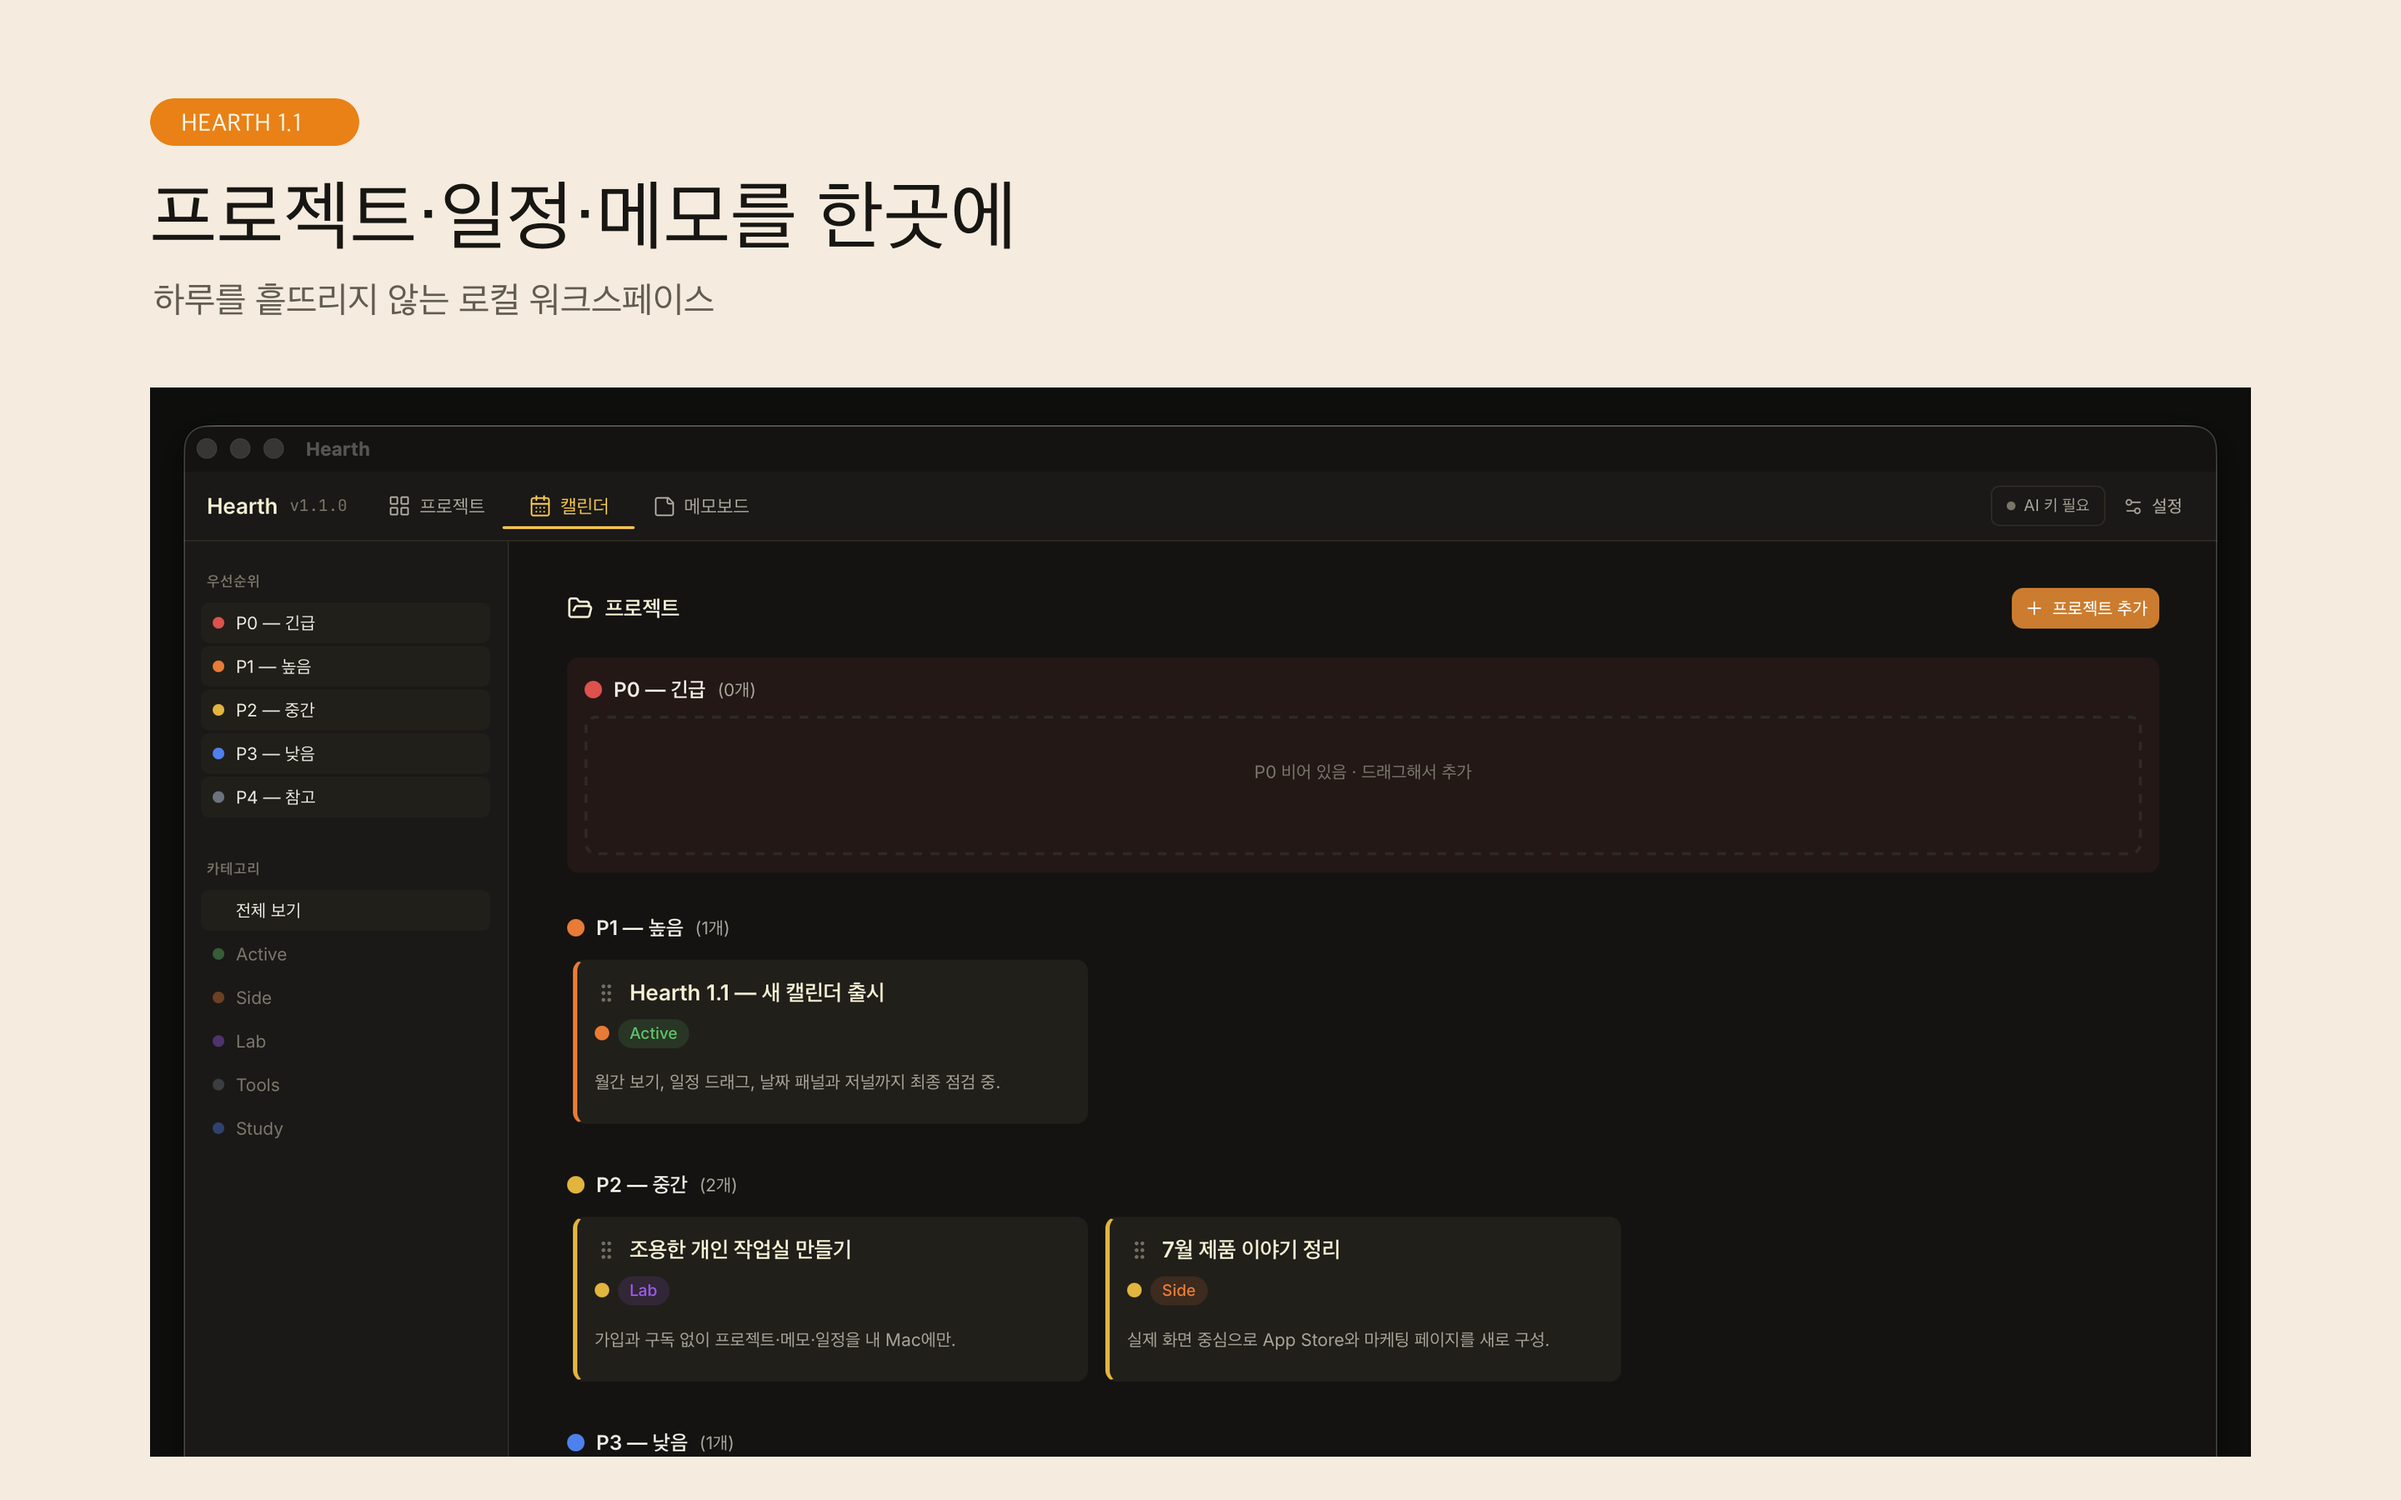
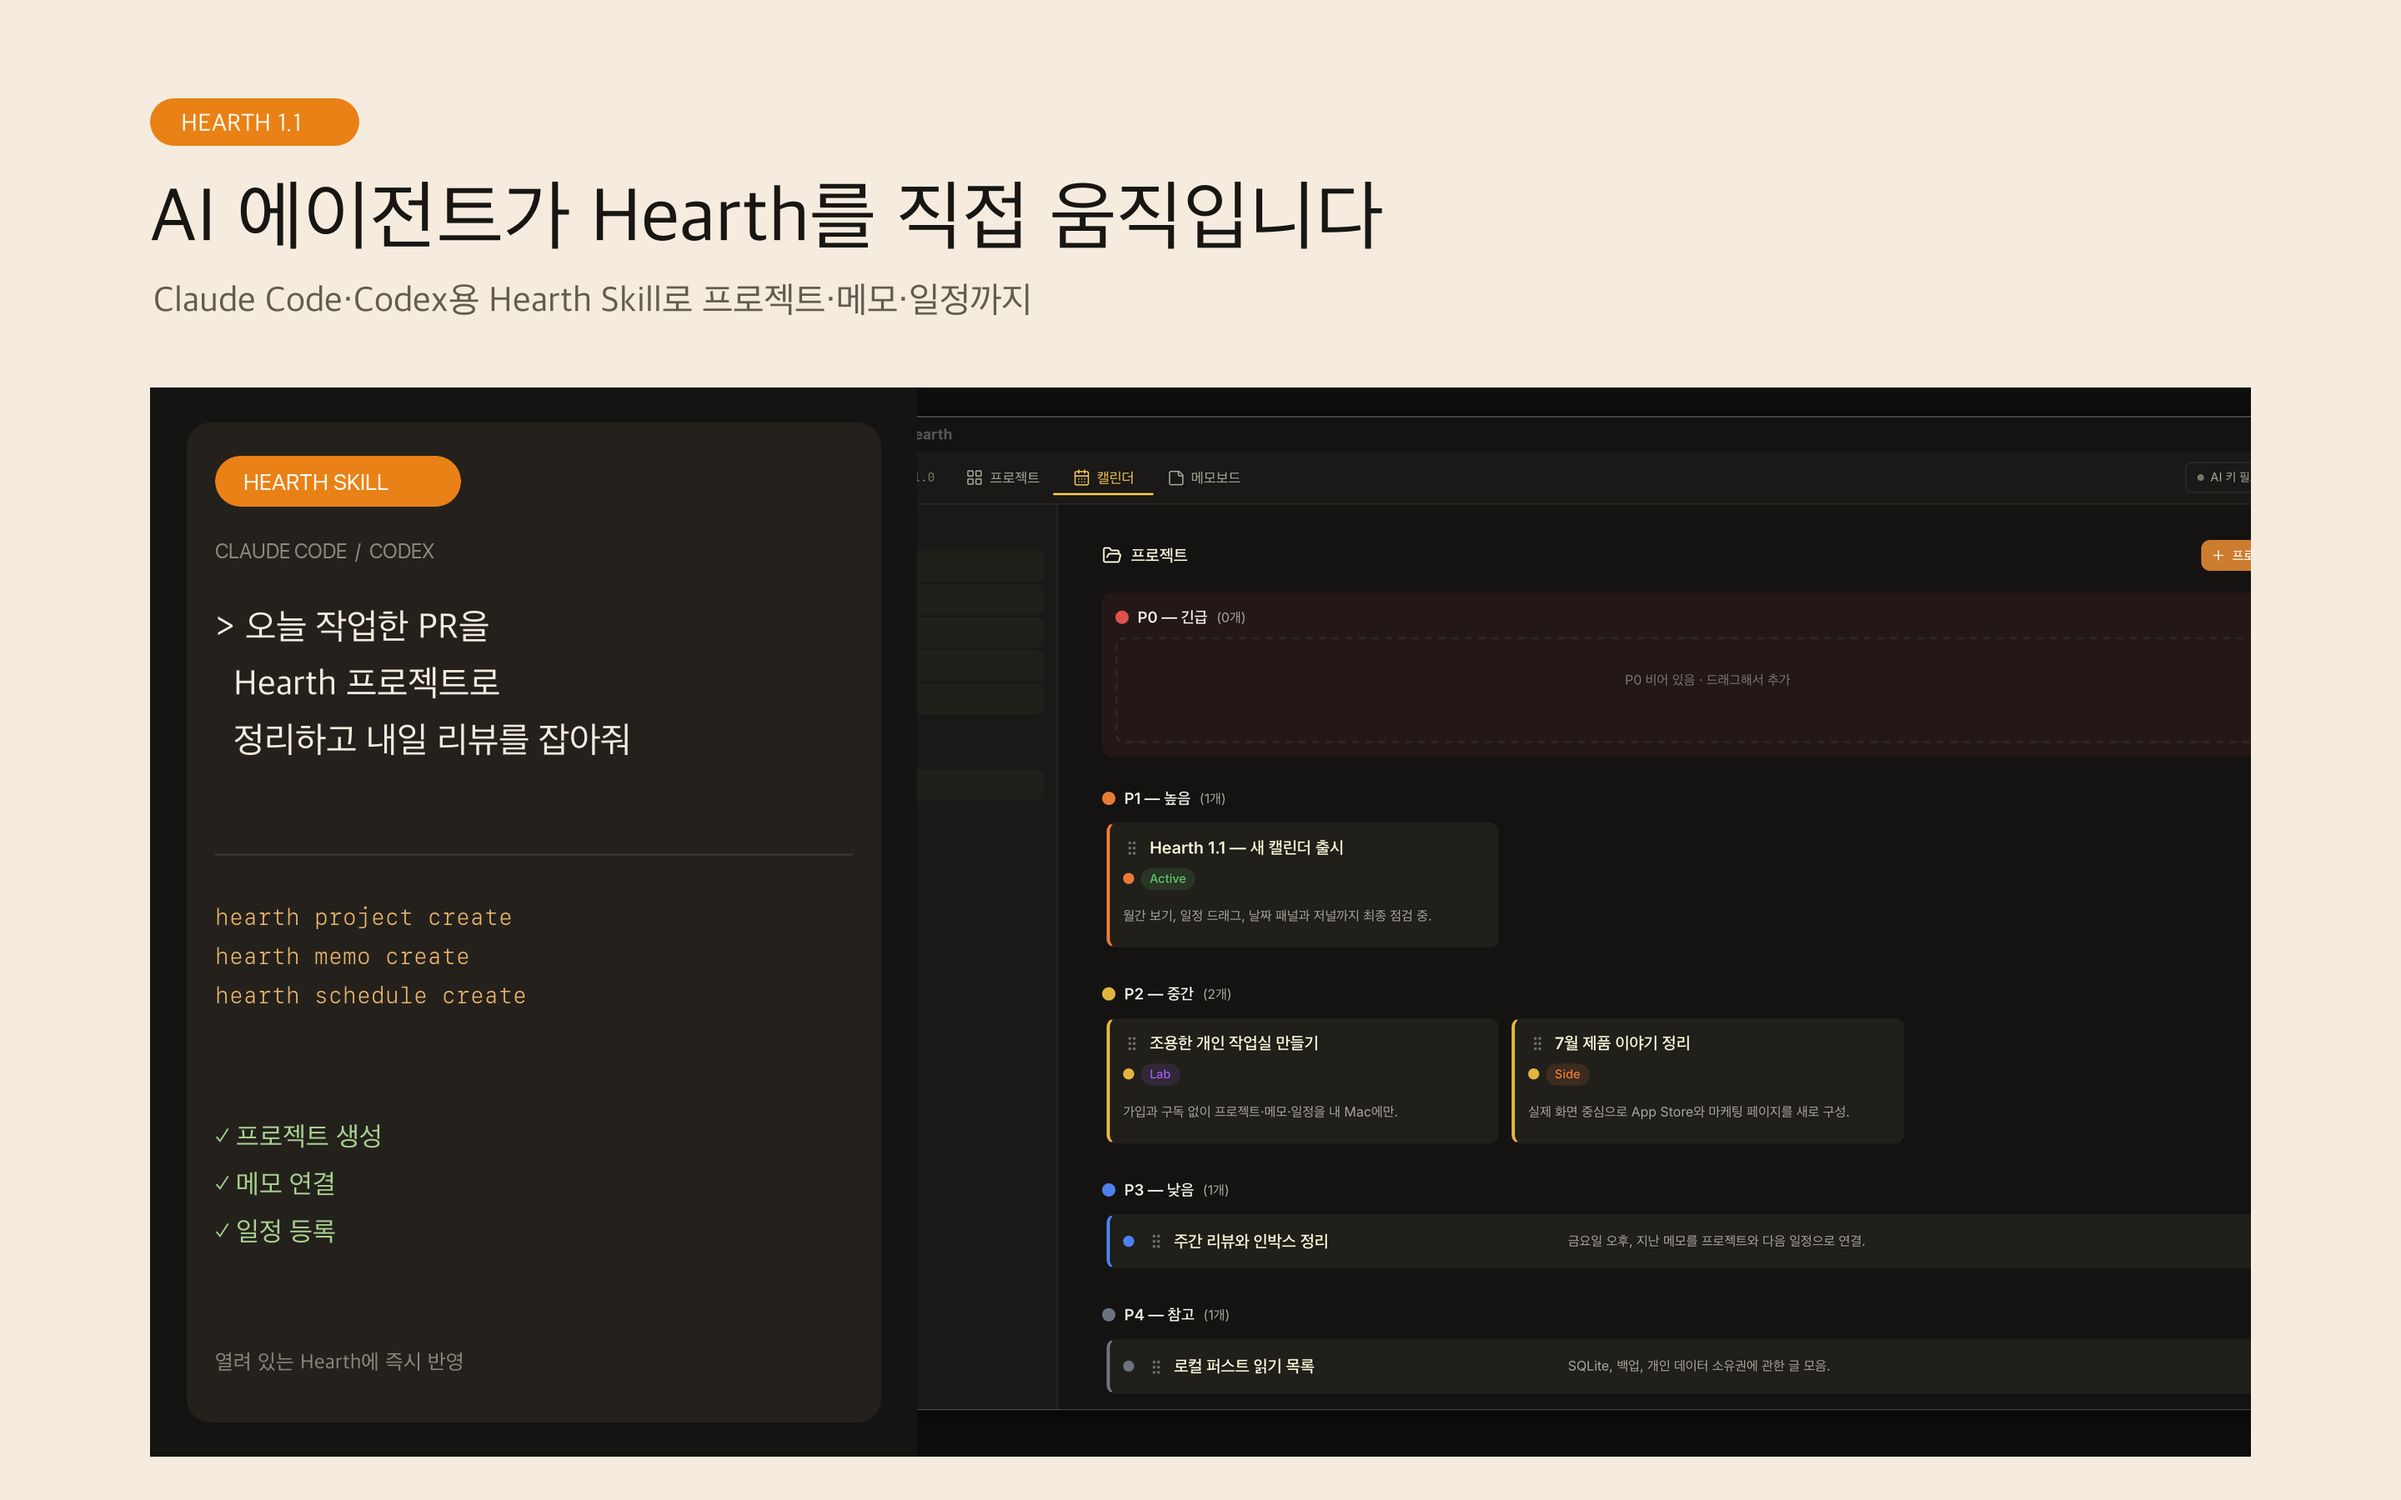
Lead 1.1.0 marketing with Hearth Skill

diff --git a/web/src/styles/global.css b/web/src/styles/global.css
@@ -6,6 +6,7 @@
   --color-paper: #F7F4EB;
   --color-ink: #0D1F08;
   --color-bone: #F2F2F2;
+  --color-ember: #E98116;
   --font-sans: "Geist", ui-sans-serif, system-ui, sans-serif;
   --radius-default: 12px;
 }

diff --git a/docs/superpowers/app-store/description-en.md b/docs/superpowers/app-store/description-en.md
@@ -5,9 +5,12 @@ char_limit: 4000
 source_spec_section: "§4.1, §4.2 (en-US)"
 ---
 
-Projects, schedules, and memos in one place. Press ⌃⇧H over any app to capture
-a thought, while every record stays in a SQLite file on your Mac. No account.
-No subscription.
+THE LOCAL WORKSPACE YOUR AI AGENT CAN ACTUALLY USE
+Connect the Hearth Skill to Claude Code or Codex. Your agent turns natural-language requests into projects, memos, and schedules, and the open Hearth app reflects each change immediately.
+
+Try: "Turn today's PRs into a new project and schedule tomorrow's review for 3 PM." The Hearth Skill uses its dedicated CLI to update your real workspace.
+
+Projects, schedules, and memos stay together. Press ⌃⇧H over any app to capture a thought, while every record stays in a SQLite file on your Mac. No account. No subscription.
 
 A CALENDAR THAT KEEPS THE DAY IN VIEW
 — See events and shifts in a clear seven-column month
@@ -26,9 +29,6 @@ Hearth has no account, analytics, or Hearth-operated server. Back up the
 database yourself or let Time Machine handle it. OpenAI integration is optional
 and uses only the API key you provide.
 
-WORK WITH YOUR AI AGENT
-Install the optional `hearth` skill and CLI for Claude Code or Codex. Your agent
-can add projects, memos, and schedules, and the open app reflects those changes
-immediately. Core app features do not require AI.
+The Hearth Skill and CLI are optional. Core app features do not require AI.
 
 One Mac App Store purchase. No separate account and no recurring subscription.

diff --git a/docs/RELEASE-MAS.md b/docs/RELEASE-MAS.md
@@ -22,7 +22,7 @@ GitHub Release(DMG + 자동 업데이트) 흐름은 별도 문서: [`docs/releas
 | 라이브 URL | https://apps.apple.com/kr/app/hearth/id6764480247 |
 | 제출 PR | #36 (squash → `eac3940`) |
 
-준비 산출물: `dist-mas/Hearth-1.1.0-12.pkg` (서명 및 Apple package validation PASS, ASC 업로드·처리·버전 연결 완료). 한국어 1.1 메타데이터와 심사 노트는 반영했고 출시 방식은 수동으로 고정했다. 영어 앱 이름 결정·스크린샷 교체·가격 예약·심사 제출은 아직 실행하지 않았다.
+준비 산출물: `dist-mas/Hearth-1.1.0-12.pkg` (서명 및 Apple package validation PASS, ASC 업로드·처리·버전 연결 완료). AI Agent + Hearth Skill 중심 마케팅 사이트와 스크린샷 10장은 준비했고 공개 사이트 배포도 검증했다. 심사 노트는 반영했고 출시 방식은 수동으로 고정했다. 한국어 메타데이터 재반영, 영어 앱 이름 결정, 새 스크린샷 교체, 가격 예약, 심사 제출은 아직 실행하지 않았다.
 
 > 이 표는 출시·업로드·핫픽스가 일어날 때마다 갱신한다. 마지막 항목은 항상 진실.
 

diff --git a/docs/superpowers/app-store/promotional-text.md b/docs/superpowers/app-store/promotional-text.md
@@ -5,14 +5,14 @@ char_limit: 170
 release: 1.1.0
 ---
 
-## en-US (145/170)
+## en-US (139/170)
 
 ```
-No account. No subscription. Keep projects, memos, and schedules on your Mac. Drag plans across the new calendar and capture each day in Journal.
+Connect the Hearth Skill to Claude Code or Codex. Your AI agent organizes projects, memos, and schedules while your data stays on your Mac.
 ```
 
-## ko-KR (69/170)
+## ko-KR (104/170)
 
 ```
-가입도 구독도 없이, 프로젝트·메모·일정을 내 Mac에만. 새 월간 캘린더에서 일정을 드래그하고, 저널로 하루를 기록하세요.
+Claude Code·Codex용 Hearth Skill로 AI 에이전트가 프로젝트·메모·일정을 직접 정리합니다. 열려 있는 Hearth에 즉시 반영되고, 데이터는 내 Mac에 남습니다.
 ```

diff --git a/docs/superpowers/app-store/keywords-ko.md b/docs/superpowers/app-store/keywords-ko.md
@@ -5,6 +5,6 @@ char_limit: 100
 source_spec_section: "§4.3 (ko-KR)"
 ---
 
-<!-- subtitle의 가입/구독/로컬/워크스페이스와 겹치지 않음. 61 / 100자. -->
+<!-- subtitle의 AI/에이전트/워크스페이스와 겹치지 않음. -->
 
-메모,일정,캘린더,투두,노트,저널,데일리플래너,빠른메모,퀵캡처,프로젝트관리,시간관리,오프라인,프라이버시,생산성
+메모,일정,캘린더,투두,노트,저널,퀵캡처,프로젝트관리,자동화,개발자도구,바이브코딩,로컬,오프라인,프라이버시,생산성

diff --git a/docs/superpowers/app-store/keywords-en.md b/docs/superpowers/app-store/keywords-en.md
@@ -5,6 +5,6 @@ char_limit: 100
 source_spec_section: "§4.3 (en-US)"
 ---
 
-<!-- Does not repeat subtitle tokens "Private Mac workspace". 98 / 100. -->
+<!-- Does not repeat subtitle tokens "AI agent workspace for Mac". -->
 
-todo,notes,memo,tasks,calendar,planner,journal,daily,capture,projects,offline,privacy,productivity
+todo,notes,memo,tasks,calendar,planner,journal,capture,projects,automation,cli,local,offline,privacy

diff --git a/docs/superpowers/app-store/subtitle.md b/docs/superpowers/app-store/subtitle.md
@@ -5,14 +5,14 @@ char_limit: 30
 release: 1.1.0
 ---
 
-## en-US (21/30)
+## en-US (26/30)
 
 ```
-Private Mac workspace
+AI agent workspace for Mac
 ```
 
-## ko-KR (18/30)
+## ko-KR (14/30)
 
 ```
-가입·구독 없는 로컬 워크스페이스
+AI 에이전트 워크스페이스
 ```
